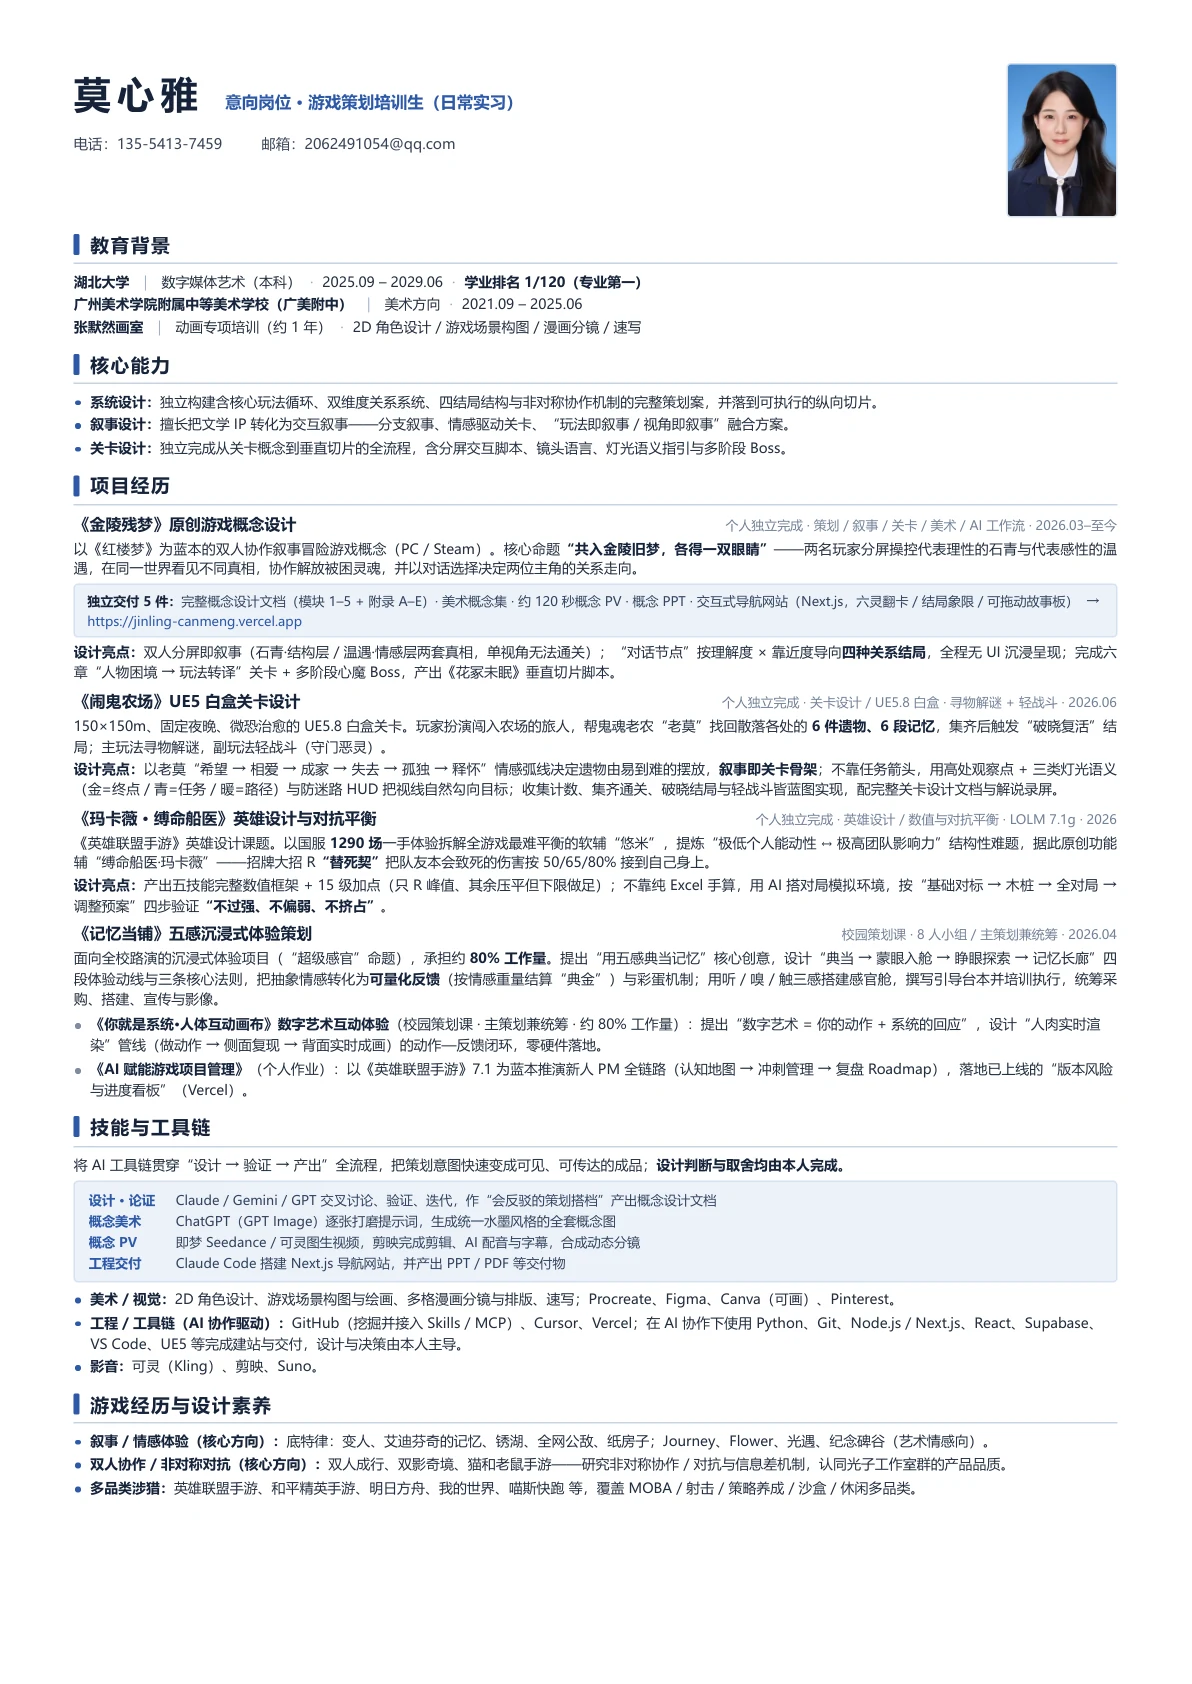
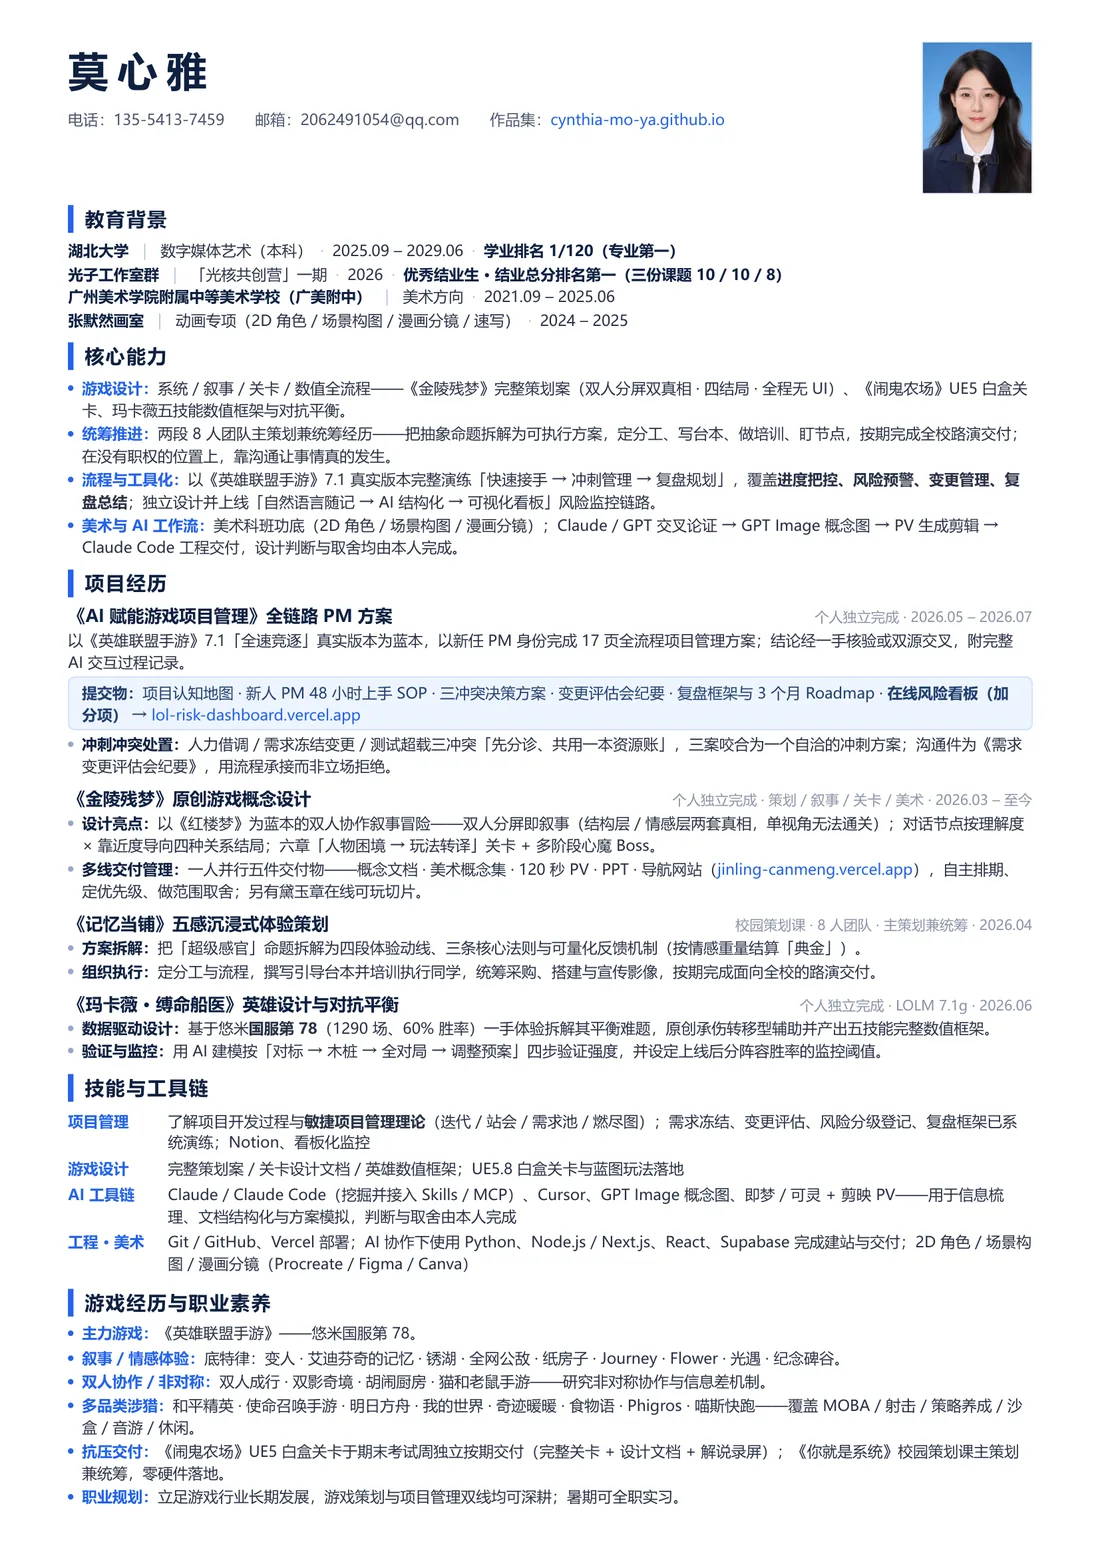
纠正简历入口：档案袋主简历换综合版，删除首屏多余按钮；解码区补新标语
- 删除首屏 .hero-resume 按钮（误解需求，简历入口应在档案袋内）
- 档案袋主简历：策划简历 → 综合简历（?v=3），CTA 改「点击阅读完整简历」
- resume-preview.webp 用综合简历 PDF 重新生成（1100×1556，?v=4）
- 解码区新标语「把名字拆开，就是我的能力清单」（decode.meta 恢复启用）
- style v27 / i18n v27

diff --git a/index.html b/index.html
@@ -9,7 +9,7 @@
 <meta property="og:description" content="会造梦，也会让梦如期上线 — 美术 / 策划 / 统筹">
 <meta property="og:image" content="assets/img/jinling-art/jinling-art-01.webp">
 <link rel="icon" type="image/svg+xml" href="assets/img/favicon.svg">
-<link rel="stylesheet" href="assets/css/style.css?v=26">
+<link rel="stylesheet" href="assets/css/style.css?v=27">
 </head>
 <body>
 
@@ -102,8 +102,6 @@
       <div class="sticker sticker-2"><b>7<span data-i18n="hero.st2u">件</span></b><span data-i18n="hero.st2">完整作品</span><small data-i18n="hero.st2s">从游戏设计到项目管理</small></div>
     </div>
 
-    <a class="hero-resume" href="assets/pdf/莫心雅_综合简历.pdf?v=3" target="_blank" data-i18n="hero.resume">📄 个人简历 PDF ↗</a>
-
     <a class="hero-scroll" href="#decode"><span data-i18n="hero.scroll">往下滑</span> <span class="thwip">THWIP!</span> ↓</a>
   </div><!-- /hero-main -->
 
@@ -150,9 +148,9 @@
           </div>
         </div>
         <div class="dossier-right">
-          <a class="dos-resume" href="assets/pdf/莫心雅_游戏策划简历.pdf?v=4" target="_blank">
-            <img src="assets/img/resume-preview.webp?v=3" alt="莫心雅简历预览" loading="lazy">
-            <span class="dos-resume-cta" data-i18n="file.read">点击阅读策划简历 ↗</span>
+          <a class="dos-resume" href="assets/pdf/莫心雅_综合简历.pdf?v=3" target="_blank">
+            <img src="assets/img/resume-preview.webp?v=4" alt="莫心雅简历预览" loading="lazy">
+            <span class="dos-resume-cta" data-i18n="file.read">点击阅读完整简历 ↗</span>
           </a>
           <a class="dos-resume-alt" href="assets/pdf/莫心雅_项目管理简历.pdf?v=2" target="_blank" data-i18n="file.readPm">📋 项目管理方向简历 ↗</a>
           <div class="dos-build" tabindex="0">
@@ -188,6 +186,7 @@
   <div class="issue-head">
     <span class="issue-num num-pink">CODENAME</span>
     <h2 class="issue-title"><span class="glitch" data-text="解码 CYNTHIA" data-i18n="decode.title">解码 CYNTHIA</span><small>DECODE THE NAME</small></h2>
+    <p class="issue-meta" data-i18n="decode.meta">把名字拆开，就是我的能力清单</p>
   </div>
 
   <div class="decode-layout">
@@ -772,7 +771,7 @@
 
 <script src="https://cdn.jsdelivr.net/npm/gsap@3.12.5/dist/gsap.min.js"></script>
 <script src="https://cdn.jsdelivr.net/npm/gsap@3.12.5/dist/ScrollTrigger.min.js"></script>
-<script src="assets/js/i18n.js?v=26"></script>
+<script src="assets/js/i18n.js?v=27"></script>
 <script src="assets/js/main.js?v=11"></script>
 <script src="assets/js/features.js?v=17"></script>
 </body>

diff --git a/assets/js/i18n.js b/assets/js/i18n.js
@@ -34,9 +34,9 @@
     'hero.st2': { zh: '完整作品', en: 'Complete Works' },
     'hero.st2s': { zh: '从游戏设计到项目管理', en: 'From game design to project management' },
     'hero.scroll': { zh: '往下滑', en: 'Scroll down' },
-    'hero.resume': { zh: '📄 个人简历 PDF ↗', en: '📄 Resume PDF ↗' },
 
     'decode.title': { zh: '解码 CYNTHIA', en: 'DECODE CYNTHIA' },
+    'decode.meta': { zh: '把名字拆开，就是我的能力清单', en: 'Spell out the name — it reads as my skill list' },
     'decode.c': { zh: '统筹协调 · 把团队拧成一股绳', en: 'Coordination · spinning a team into one thread' },
     'decode.y': { zh: '纺出故事线 · 也是一根蛛丝', en: 'Spinning yarns · also spider silk' },
     'decode.n': { zh: '叙事设计 · 文学 IP 的交互转生', en: 'Narrative design · literature reborn as play' },
@@ -61,7 +61,7 @@
     'file.s2': { zh: '· 系统 / 叙事 / 关卡设计<br>· 7 件完整作品<br>· 8 人团队主策划兼统筹 ×2', en: '· Systems / narrative / level design<br>· 7 complete works<br>· Lead & coordinator of 8-person team ×2' },
     'file.s3t': { zh: '教育', en: 'EDU' },
     'file.s3': { zh: '湖北大学 · 数媒艺术 2025–2029<br>学业排名 1/120 · 广美附中<br>光核共创营一期 · 结业总分第一', en: 'Hubei University · DMA 2025–2029<br>Rank 1/120 · GAFA affiliated school<br>LIGHTSPEED camp S1 · No.1 overall' },
-    'file.read': { zh: '点击阅读策划简历 ↗', en: 'Read the game-design resume ↗' },
+    'file.read': { zh: '点击阅读完整简历 ↗', en: 'Read the full resume ↗' },
     'file.readPm': { zh: '📋 项目管理方向简历 ↗', en: '📋 Project-management resume ↗' },
     'build.b1t': { zh: '系统设计', en: 'Systems Design' },
     'build.b1s': { zh: '完整策划案 · 玩法循环 / 关系系统 / 多结局', en: 'Full design doc · loop / relationships / endings' },

diff --git a/assets/css/style.css b/assets/css/style.css
@@ -363,15 +363,6 @@ a { color: inherit; text-decoration: none; }
 .role-chip.chip-ink { background: var(--ink); color: var(--cyan); border-color: rgba(76, 201, 240, .55); font-family: var(--disp-en); letter-spacing: .12em; font-weight: 400; }
 .role-chip.chip-cyan { background: var(--cyan); }
 .role-chip.chip-lav { background: var(--lavender); transform: rotate(1deg); }
-/* 首屏综合简历跳转按钮 */
-.hero-resume {
-  display: inline-block; margin-top: 2px; padding: 10px 18px;
-  background: var(--paper); color: var(--ink); font-weight: 800; font-size: .92rem;
-  border: 2.5px solid var(--ink); box-shadow: 5px 5px 0 var(--pink-deep);
-  text-decoration: none; transform: rotate(-.8deg);
-  transition: transform .25s, box-shadow .25s;
-}
-.hero-resume:hover { transform: rotate(0) translateY(-2px); box-shadow: 5px 7px 0 var(--cyan-deep); }
 
 .hero-line { font-size: clamp(1.1rem, 2.4vw, 1.5rem); font-weight: 600; }
 .hero-line em {
